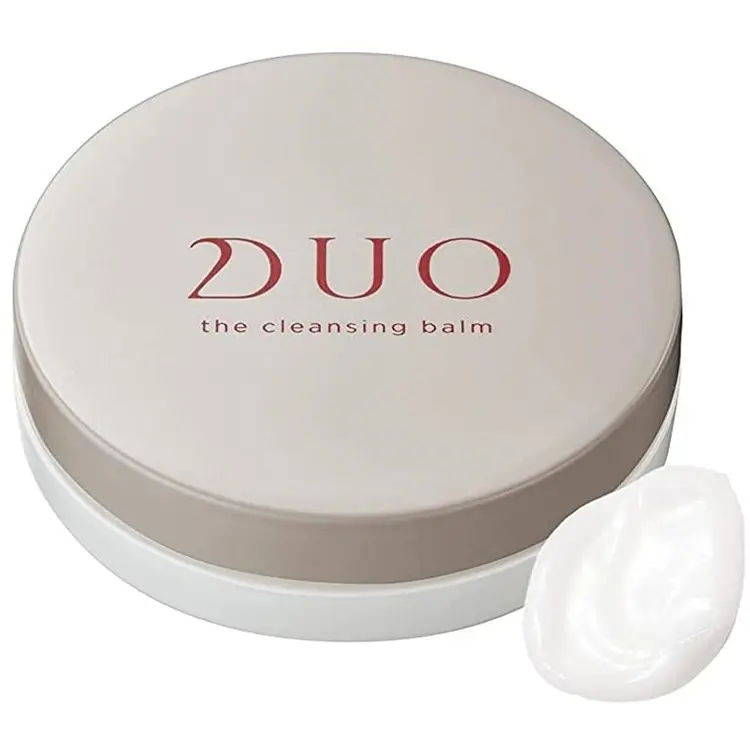
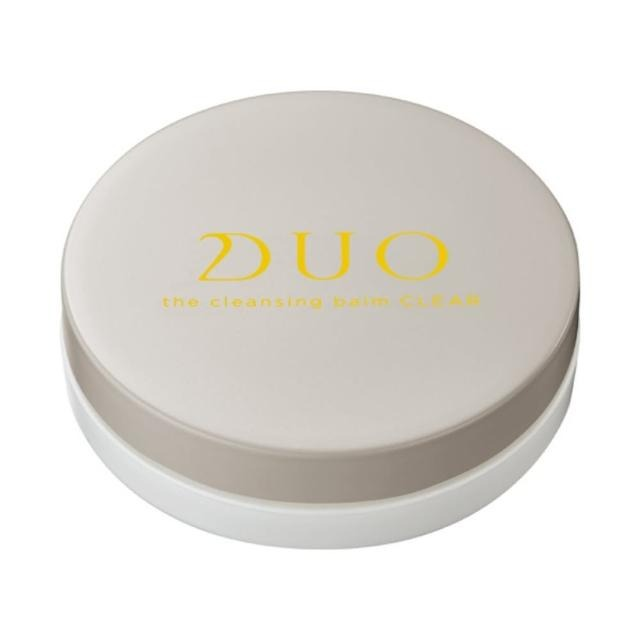
feat: 更新產品圖片並調整購物清單
圖片更新：
- DUO 卸妝膏 90g/20g 替換為用戶提供的圖片
- KATE 眼線筆替換為官方產品圖
- 肌研化妝水補充包替換為新圖片

購物清單：
- 新增「肌研化妝水 白潤Premium」(首選)
- 修改「肌研化妝水 綠瓶補充包」(備案)

diff --git a/src/pages/trips/ise-shima/data.js b/src/pages/trips/ise-shima/data.js
@@ -405,7 +405,8 @@ export const shoppingData = {
       items: [
         { func: "眼霜", type: "必買", name: "SANA 豆乳眼霜", nameJp: "サナ なめらか本舗 目元ふっくらクリーム", price: 900, image: "/me/images/products/sana_eye_cream.png", note: "【妝前消腫】早上妝前使用，讓眼下不卡紋" },
         { func: "眼霜", type: "必買", name: "Melano CC 集中對策眼霜", nameJp: "メラノCC 集中対策 目もと集中美容液", price: 1100, image: "/me/images/products/melano_cc_eye.png", note: "【去黑眼圈】晚上使用，針對色素沈澱" },
-        { func: "化妝水", type: "囤貨", name: "肌研化妝水 (補充包)", nameJp: "肌ラボ 極潤 ヒアルロン液 つめかえ用", price: 700, image: "/me/images/products/hada_labo_refill.png", note: "【囤貨帶回台灣】愛用品補貨，放托運" },
+        { func: "化妝水", type: "首選", name: "肌研化妝水 白潤Premium", nameJp: "肌ラボ 白潤プレミアム 薬用浸透美白化粧水", desc: "清爽型", price: 990, image: "/me/images/products/hada_labo_premium.png", note: "【美白化妝水】含傳明酸，適合想改善暗沉" },
+        { func: "化妝水", type: "備案", name: "肌研化妝水 綠瓶補充包", nameJp: "肌ラボ 極潤 ヒアルロン液 つめかえ用", price: 700, image: "/me/images/products/hada_labo_refill.png", note: "【囤貨帶回台灣】愛用品補貨，放托運", isBackup: true },
         { func: "眼藥水", type: "必買", name: "Rohto Digi-Eye", nameJp: "ロート デジアイ", desc: "鮮黃色盒子", price: 680, image: "/me/images/products/rohto_digi_eye.png", note: "【藍光修復眼藥水】針對長時間盯電腦。含B2 (液體黃色)，請裸眼使用", warning: true },
       ],
     },
